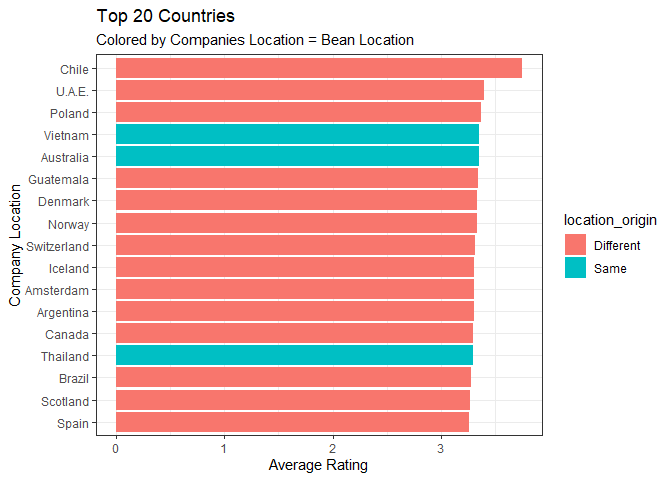
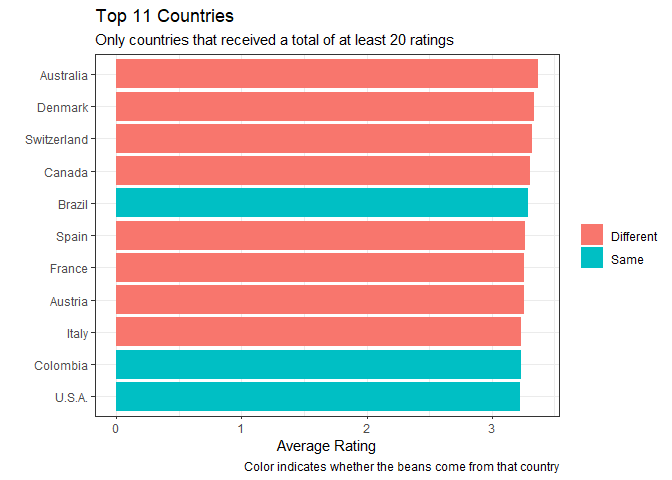
Update of previous graph

diff --git a/Chocolate.md b/Chocolate.md
@@ -178,22 +178,7 @@ chocolate %>%
 chocolate <- chocolate %>%
   mutate(location_origin = ifelse(company_location == country_of_bean_origin, "Same","Different"))
 
-t.test(rating ~ location_origin, chocolate)
-```
 
-    ## 
-    ##  Welch Two Sample t-test
-    ## 
-    ## data:  rating by location_origin
-    ## t = 2.958, df = 410.71, p-value = 0.003276
-    ## alternative hypothesis: true difference in means is not equal to 0
-    ## 95 percent confidence interval:
-    ##  0.02660304 0.13201587
-    ## sample estimates:
-    ## mean in group Different      mean in group Same 
-    ##                3.206281                3.126972
-
-``` r
 chocolate %>%
   ggplot(aes(location_origin, rating, group = location_origin)) + geom_boxplot() + 
   stat_summary(fun = mean, geom ="line", color = "blue", group = 1) +
@@ -209,18 +194,41 @@ chocolate %>%
 
 ![](Chocolate_files/figure-gfm/unnamed-chunk-8-2.png)<!-- -->
 
+## Ratings by country = bean origin
+
 ``` r
 chocolate %>%
-  group_by(company_location) %>%
+  group_by(company_location, location_origin) %>%
   summarize(rating = mean(rating),
-            location_origin) %>%
-  distinct(company_location, rating, location_origin) %>%
+            n = n()) %>%
+  filter(n > 20) %>%
   arrange(-rating) %>%
-  head(20) %>%
+  head(11) %>%
   ggplot(aes(rating, reorder(company_location, rating, order = TRUE), fill = location_origin)) + geom_col(position = "identity") +
-  labs(y = "Company Location", x = "Average Rating", title = "Top 20 Countries", subtitle = "Colored by Companies Location = Bean Location")
+  labs(y = "", x = "Average Rating", title = "Top 11 Countries", 
+       subtitle = "Only countries that received a total of at least 20 ratings", fill = "",
+       caption = "Color indicates whether the beans come from that country")
 ```
 
     ## `summarise()` has grouped output by 'company_location'. You can override using the `.groups` argument.
 
 ![](Chocolate_files/figure-gfm/unnamed-chunk-9-1.png)<!-- -->
+
+``` r
+chocolate %>%
+  group_by(company_manufacturer, location_origin) %>%
+  summarize(rating = mean(rating),
+            n = n()) %>%
+  filter(n > 10) %>%
+  arrange(-rating) %>%
+  head(10) %>%
+  ggplot(aes(rating, reorder(company_manufacturer, rating, order = TRUE), fill = location_origin)) + 
+  geom_col() +
+  labs(y = "", x = "Average Rating", title = "Top 10 Companies", fill = "",
+       subtitle = "Only companies that received a total of at least 10 ratings",
+       caption = "Color indicates whether the company and the beans are from the same country")
+```
+
+    ## `summarise()` has grouped output by 'company_manufacturer'. You can override using the `.groups` argument.
+
+![](Chocolate_files/figure-gfm/unnamed-chunk-10-1.png)<!-- -->
